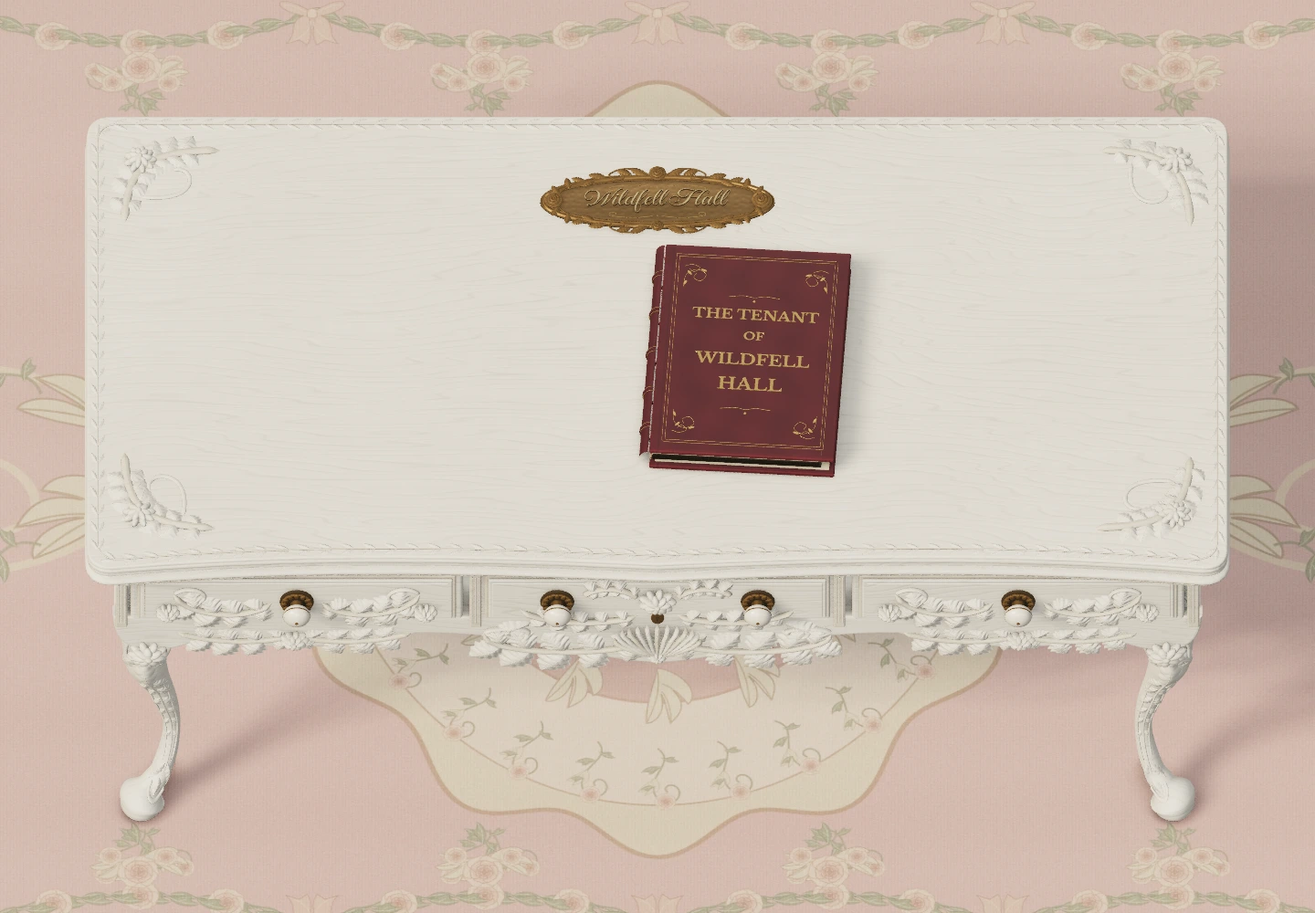
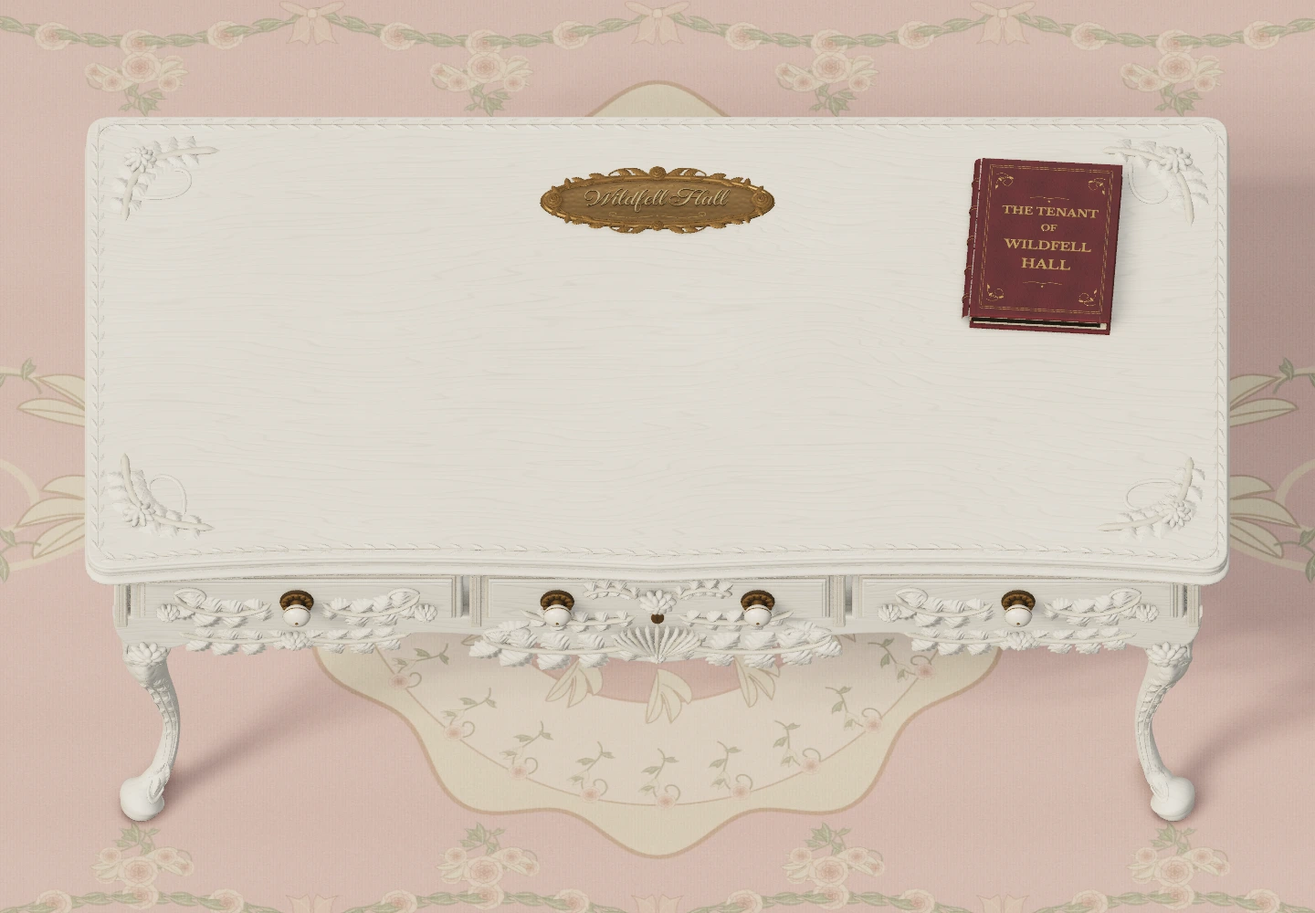
Refine the corner book and add full-screen reading

Changed region(s): [[0.4688, 0.248, 0.6562, 0.527], [0.7188, 0.155, 0.875, 0.372]]

diff --git a/src/desk-interaction.js b/src/desk-interaction.js
@@ -10,6 +10,8 @@ export function createDeskInteraction({ canvas, room, camera, desk, book, status
   const names = ['left', 'centre', 'right'];
   const bookControls = document.querySelector('#book-controls');
   const bookClose = document.querySelector('#book-close');
+  const bookRead = document.querySelector('#book-read'), viewToggle = document.querySelector('#view-toggle');
+  const viewReset = document.querySelector('#view-reset');
   const bookButtons = [...bookControls.querySelectorAll('button')];
   const pan = new THREE.Vector2(), pointers = new Map(), raycaster = new THREE.Raycaster();
   const pickMeshes = [];
@@ -21,10 +23,15 @@ export function createDeskInteraction({ canvas, room, camera, desk, book, status
   book.group.traverse(object => { if (object.isMesh && object.userData.bookPick) pickMeshes.push(object); });
   let zoom = 1, gesture = null, enabled = false, focusedDrawer = null, focusedBook = null;
   let lastBookPhase = 'closed', lastBookPage = 0;
+  let reading = false, deskView = null, ownedFullscreen = false, pendingTap = 0, lastTap = null;
   const MIN_ZOOM = 1, MAX_ZOOM = 2.8;
   const size = () => canvas.getBoundingClientRect();
   const visible = () => new THREE.Vector2((camera.right - camera.left) / camera.zoom, (camera.top - camera.bottom) / camera.zoom);
   function limits() {
+    if (reading) {
+      const view = visible();
+      return new THREE.Vector2(Math.max(0, (book.width - view.x) / 2 + .12), Math.max(0, (book.depth - view.y) / 2 + .12));
+    }
     const view = visible(), cropped = 8.1 - view.x / 2;
     return new THREE.Vector2(cropped > 0 ? Math.min(6.6, cropped + 1.2) : 0, Math.max(0, 6.1 - view.y / 2));
   }
@@ -48,8 +55,54 @@ export function createDeskInteraction({ canvas, room, camera, desk, book, status
     zoomOut.disabled = zoom <= MIN_ZOOM + .001;
   }
   function reset() {
-    resetView(); setZoom(1); pan.set(0, 0); invalidate();
+    if (!reading) resetView();
+    setZoom(1); pan.set(0, 0); invalidate();
   }
+  function clearTap() {
+    clearTimeout(pendingTap); pendingTap = 0; lastTap = null;
+  }
+  function readingControls() {
+    room.classList.toggle('is-reading', reading);
+    room.dataset.bookReading = String(reading);
+    drawerControls.hidden = !enabled || reading;
+    bookRead.setAttribute('aria-pressed', String(reading));
+    bookRead.setAttribute('aria-label', reading ? 'Return to desk' : 'Read book full screen');
+    viewReset.setAttribute('aria-label', reading ? 'Fit book to screen' : 'Reset view');
+    zoomIn.disabled = zoom >= MAX_ZOOM - .001; zoomOut.disabled = zoom <= MIN_ZOOM + .001;
+  }
+  function leaveReading() {
+    if (!reading) return;
+    clearTap(); reading = false;
+    zoom = deskView.zoom; pan.copy(deskView.pan); deskView = null;
+    focusedBook = focusedDrawer = null;
+    readingControls(); invalidate(); canvas.focus({ preventScroll: true });
+    status.textContent = 'Returned to the desk. Your place in the book is preserved.';
+    if (document.fullscreenElement === room) document.exitFullscreen().catch(() => {});
+  }
+  function enterReading() {
+    if (!enabled || reading) return;
+    clearTap(); deskView = { zoom, pan: pan.clone() };
+    reading = true; zoom = 1; pan.set(0, 0); focusedBook = focusedDrawer = null;
+    book.motion.open(); readingControls(); invalidate(); canvas.focus({ preventScroll: true });
+    status.textContent = 'Full-screen reading view. Click the pages or use the arrow keys to turn them. Press Escape to return to the desk.';
+    // The viewport reader also works on browsers that do not offer fullscreen
+    // or reject the request. Keep the request within the user's input event.
+    if (room.requestFullscreen && !document.fullscreenElement) {
+      room.requestFullscreen().then(() => {
+        if (!reading && document.fullscreenElement === room) document.exitFullscreen().catch(() => {});
+      }).catch(() => {});
+    }
+  }
+  document.addEventListener('fullscreenchange', () => {
+    if (document.fullscreenElement === room) ownedFullscreen = true;
+    else if (ownedFullscreen) { ownedFullscreen = false; leaveReading(); }
+    invalidate();
+  });
+  room.addEventListener('keydown', event => {
+    if (event.key === 'Escape' && reading) {
+      event.preventDefault(); event.stopPropagation(); leaveReading();
+    }
+  }, true);
   function hitTarget(x, y) {
     const rect = size();
     raycaster.setFromCamera(new THREE.Vector2((x - rect.left) / rect.width * 2 - 1, 1 - (y - rect.top) / rect.height * 2), camera);
@@ -65,6 +118,8 @@ export function createDeskInteraction({ canvas, room, camera, desk, book, status
     return null;
   }
   function activateBook(action) {
+    clearTap();
+    if (reading && (action === 'close' || action === 'toggle' || (action === 'previous' && book.motion.page === 0))) leaveReading();
     if (!enabled || !book.activate(action)) return;
     if (!book.motion.opened || action === 'close') bookButtons[0].focus({ preventScroll: true });
     status.textContent = action === 'next' || action === 'previous'
@@ -103,9 +158,10 @@ export function createDeskInteraction({ canvas, room, camera, desk, book, status
     });
   });
   bookClose.addEventListener('click', () => activateBook('close'));
+  bookRead.addEventListener('click', () => reading ? leaveReading() : enterReading());
   zoomIn.addEventListener('click', () => setZoom(zoom * 1.25));
   zoomOut.addEventListener('click', () => setZoom(zoom / 1.25));
-  document.querySelector('#view-reset').addEventListener('click', reset);
+  viewReset.addEventListener('click', reset);
   canvas.addEventListener('wheel', event => {
     if (!enabled) return;
     event.preventDefault();
@@ -123,7 +179,13 @@ export function createDeskInteraction({ canvas, room, camera, desk, book, status
     pointers.set(event.pointerId, { x: event.clientX, y: event.clientY });
     canvas.setPointerCapture(event.pointerId);
     const multi = pointers.size > 1;
-    gesture = { previous: midpoint(), start: midpoint(), moved: multi, target: multi ? null : hitTarget(event.clientX, event.clientY) };
+    const doubleTap = !multi && lastTap && event.timeStamp - lastTap.time < 340 &&
+      Math.hypot(event.clientX - lastTap.x, event.clientY - lastTap.y) < 28;
+    // Cancel the first page tap on the second press, before a slow rendered
+    // frame or a held finger can let the single-tap timer turn that page.
+    if (doubleTap) clearTimeout(pendingTap);
+    if (multi) clearTap();
+    gesture = { previous: midpoint(), start: midpoint(), moved: multi, doubleTap, startedAt: event.timeStamp, target: multi ? null : hitTarget(event.clientX, event.clientY) };
   });
   canvas.addEventListener('pointermove', event => {
     if (!enabled) return;
@@ -136,6 +198,7 @@ export function createDeskInteraction({ canvas, room, camera, desk, book, status
     const point = midpoint(), previous = gesture.previous;
     if (!gesture.moved && Math.hypot(point.x - gesture.start.x, point.y - gesture.start.y) < 6) return;
     gesture.moved = true;
+    clearTap();
     const rect = size(), view = visible();
     pan.x -= (point.x - previous.x) / rect.width * view.x;
     pan.y += (point.y - previous.y) / rect.height * view.y;
@@ -146,17 +209,32 @@ export function createDeskInteraction({ canvas, room, camera, desk, book, status
   function release(event, cancelled = false) {
     if (!pointers.has(event.pointerId)) return;
     const click = !cancelled && !gesture.moved && pointers.size === 1;
-    const target = gesture.target;
+    const { target, doubleTap, startedAt } = gesture;
     pointers.delete(event.pointerId);
     if (canvas.hasPointerCapture(event.pointerId)) canvas.releasePointerCapture(event.pointerId);
     if (pointers.size) gesture = { previous: midpoint(), start: midpoint(), moved: true, target: null };
     else { gesture = null; room.classList.remove('is-dragging'); }
     if (click && target && hitTarget(event.clientX, event.clientY) === target) {
-      if (target.startsWith('book:')) activateBook(target.slice(5));
+      if (target.startsWith('book:')) {
+        if (doubleTap) {
+          clearTap(); enterReading();
+        } else {
+          clearTap();
+          const action = target.slice(5);
+          if (book.motion.phase === 'closed') activateBook(action);
+          else if (action !== 'busy') pendingTap = setTimeout(() => activateBook(action), 340);
+          lastTap = { time: startedAt, x: event.clientX, y: event.clientY };
+        }
+      }
       else toggleDrawer(Number(target.slice(7)));
     }
+    if (cancelled) clearTap();
   }
   canvas.addEventListener('pointerup', event => release(event));
+  canvas.addEventListener('dblclick', event => {
+    if (!enabled || !hitTarget(event.clientX, event.clientY)?.startsWith('book:')) return;
+    event.preventDefault(); clearTap(); enterReading();
+  });
   canvas.addEventListener('pointercancel', event => release(event, true));
   canvas.addEventListener('lostpointercapture', event => release(event, true));
   canvas.addEventListener('pointerleave', () => room.classList.remove('is-drawer-hover'));
@@ -182,16 +260,39 @@ export function createDeskInteraction({ canvas, room, camera, desk, book, status
   });
   return {
     get dragging() { return pointers.size > 0; },
+    get reading() { return reading; },
     setEnabled(value) {
-      enabled = value; drawerControls.hidden = bookControls.hidden = !value;
+      enabled = value; bookControls.hidden = !value; readingControls();
       canvas.tabIndex = value ? 0 : -1;
       if (!value) {
+        clearTap();
         for (const id of pointers.keys()) if (canvas.hasPointerCapture(id)) canvas.releasePointerCapture(id);
         pointers.clear(); gesture = null;
         room.classList.remove('is-dragging', 'is-drawer-hover');
       }
     },
     applyCamera(target, direction, detail) {
+      if (reading) {
+        const rect = size(), aspect = rect.width / rect.height;
+        const usableHeight = Math.max(.55, 1 - 140 / rect.height);
+        const viewHeight = Math.max(book.depth / usableHeight, book.width / (aspect * .90));
+        camera.left = -viewHeight * aspect / 2; camera.right = -camera.left;
+        camera.top = viewHeight / 2; camera.bottom = -camera.top; camera.zoom = zoom;
+        direction.set(0, 1, 0);
+        const up = new THREE.Vector3(0, 0, -1).applyQuaternion(book.group.quaternion);
+        const right = new THREE.Vector3(1, 0, 0).applyQuaternion(book.group.quaternion);
+        camera.up.copy(up); target.copy(book.group.position);
+        if (focusedBook !== null) {
+          const relative = book.anchor(focusedBook).sub(target), view = visible();
+          if (Math.abs(relative.dot(right) - pan.x) > view.x * .40) pan.x = relative.dot(right);
+          if (Math.abs(relative.dot(up) - pan.y) > view.y * .40) pan.y = relative.dot(up);
+          focusedBook = null;
+        }
+        clampPan(); target.addScaledVector(right, pan.x).addScaledVector(up, pan.y - viewHeight * (50 / rect.height) / zoom);
+        room.classList.toggle('is-pannable', limits().lengthSq() > .01);
+        return;
+      }
+      camera.up.set(0, 1, 0);
       camera.zoom = zoom * (1 + detail * .14); clampPan();
       const up = new THREE.Vector3(0, direction.z, -direction.y);
       if (focusedDrawer !== null) {
@@ -233,7 +334,7 @@ export function createDeskInteraction({ canvas, room, camera, desk, book, status
       });
       const { motion } = book;
       if (motion.phase !== lastBookPhase || motion.page !== lastBookPage) {
-        if (motion.phase === 'open') status.textContent = `The book is open. ${motion.page} of ${LEAF_COUNT} blank leaves turned. Use the left and right pages or arrow keys to turn pages, and Escape to close.`;
+        if (motion.phase === 'open') status.textContent = `The book is open. ${motion.page} of ${LEAF_COUNT} blank leaves turned. Use the left and right pages or arrow keys to turn pages. ${reading ? 'Escape returns to the desk.' : 'Double-click for full-screen reading, or press Escape to close.'}`;
         if (motion.phase === 'closed') status.textContent = 'The Tenant of Wildfell Hall is closed.';
         lastBookPhase = motion.phase; lastBookPage = motion.page;
       }
@@ -241,6 +342,8 @@ export function createDeskInteraction({ canvas, room, camera, desk, book, status
       room.dataset.bookPage = String(motion.page); room.dataset.bookPhase = motion.phase;
       bookControls.setAttribute('aria-busy', String(motion.busy));
       bookClose.hidden = !motion.opened;
+      bookRead.hidden = !motion.opened;
+      viewToggle.hidden = motion.opened;
       bookButtons.forEach(button => {
         const action = button.dataset.bookAction;
         button.hidden = action !== 'toggle' && !motion.opened;

diff --git a/src/main.js b/src/main.js
@@ -86,7 +86,11 @@ async function init() {
   });
   // A room-size carpet keeps the elevated composition on the blush textile.
   carpet.scale.set(1.85, 1, 1.85); carpet.position.z = -3;
-  scene.add(createFloor(), carpet, desk.group, book.group);
+  const furniture = new THREE.Group(); furniture.add(createFloor(), carpet, desk.group);
+  const readingGround = new THREE.Mesh(new THREE.PlaneGeometry(100, 100), new THREE.MeshStandardMaterial({ color: '#302620', roughness: 1 }));
+  readingGround.rotation.x = -Math.PI / 2; readingGround.position.y = DESK.surfaceY;
+  readingGround.receiveShadow = true; readingGround.visible = false;
+  scene.add(furniture, book.group, readingGround);
   renderer.shadowMap.needsUpdate = true;
 
   // Small-scale occlusion makes the carved undercuts read without painting black outlines.
@@ -101,7 +105,7 @@ async function init() {
 
   let width = 0, height = 0, frame = 0, lastTime = 0;
   let graphicsAvailable = true;
-  let currentLight = 0, currentDetail = 0;
+  let currentLight = 0, currentDetail = 0, wasReading = false;
   const pointer = new THREE.Vector2(), currentPointer = new THREE.Vector2();
   const interaction = createDeskInteraction({ canvas, room, camera, desk, book, status, invalidate, resetView: () => {
     setDetail(false); pointer.set(0, 0); currentPointer.set(0, 0);
@@ -111,12 +115,7 @@ async function init() {
   function resize() {
     width = room.clientWidth; height = room.clientHeight;
     renderer.setSize(width, height, false); composer.setSize(width, height);
-    // A narrow carpet surround on desktop; portrait crops the sides instead
-    // of shrinking the writing surface into the middle of a large floor.
-    const aspect = width / height, viewHeight = Math.min(12.2, Math.max(11.6, 17.6 / aspect));
-    camera.left = -viewHeight * aspect / 2; camera.right = -camera.left;
-    camera.top = viewHeight / 2; camera.bottom = -camera.top;
-    camera.updateProjectionMatrix();
+    renderer.shadowMap.needsUpdate = true;
     invalidate();
   }
   function invalidate() { if (!frame && !document.hidden && graphicsAvailable) frame = requestAnimationFrame(render); }
@@ -135,6 +134,14 @@ async function init() {
     hemisphere.color.copy(sky).lerp(duskSky, currentLight);
     hemisphere.intensity = .42 - currentLight * .10;
     renderer.toneMappingExposure = .94 - currentLight * .06;
+    // A narrow carpet surround on desktop; portrait crops the sides instead
+    // of shrinking the writing surface into the middle of a large floor.
+    const aspect = width / height, viewHeight = Math.min(12.2, Math.max(11.6, 17.6 / aspect));
+    camera.left = -viewHeight * aspect / 2; camera.right = -camera.left;
+    camera.top = viewHeight / 2; camera.bottom = -camera.top;
+    if (!interaction.reading) book.place(viewHeight * aspect, aspect <= .75);
+    furniture.visible = !interaction.reading; readingGround.visible = interaction.reading;
+    if (wasReading !== interaction.reading) { renderer.shadowMap.needsUpdate = true; wasReading = interaction.reading; }
     const target = baseTarget.clone();
     target.x += currentPointer.x * .07;
     target.y -= currentDetail * .15;
@@ -153,11 +160,13 @@ async function init() {
     if (unsettled || drawers.unsettled || pages.unsettled) invalidate();
   }
   room.addEventListener('pointermove', event => {
-    if (interaction.dragging || motionQuery.matches || !finePointer.matches || event.pointerType === 'touch') return;
+    if (interaction.reading || interaction.dragging || motionQuery.matches || !finePointer.matches || event.pointerType === 'touch') return;
     pointer.set((event.clientX / width - .5) * 2, (event.clientY / height - .5) * 2); invalidate();
   }, { passive: true });
   room.addEventListener('pointerleave', () => { pointer.set(0, 0); invalidate(); });
-  canvas.addEventListener('pointerdown', () => { pointer.set(0, 0); invalidate(); });
+  canvas.addEventListener('pointerdown', () => {
+    if (pointer.lengthSq() || currentPointer.lengthSq()) { pointer.set(0, 0); invalidate(); }
+  });
   motionQuery.addEventListener('change', () => { pointer.set(0, 0); invalidate(); });
   document.addEventListener('visibilitychange', () => {
     if (document.hidden) { cancelAnimationFrame(frame); frame = 0; }

diff --git a/index.html b/index.html
@@ -13,14 +13,14 @@
     <main id="room" aria-label="An antique white wooden writing desk">
       <div id="desk-fallback" aria-hidden="true">
         <picture>
-          <source media="(min-aspect-ratio: 3/2)" srcset="./materials/desk-still-wide.webp?v=book-1" />
-          <source media="(max-aspect-ratio: 3/4)" srcset="./materials/desk-still-portrait.webp?v=book-1" />
-          <img src="./materials/desk-still.webp?v=book-1" alt="" fetchpriority="high" />
+          <source media="(min-aspect-ratio: 3/2)" srcset="./materials/desk-still-wide.webp?v=book-2" />
+          <source media="(max-aspect-ratio: 3/4)" srcset="./materials/desk-still-portrait.webp?v=book-2" />
+          <img src="./materials/desk-still.webp?v=book-2" alt="" fetchpriority="high" />
         </picture>
       </div>
       <h1 class="sr-only">Wildfell Hall</h1>
       <canvas id="desk" aria-describedby="desk-help" aria-label="An elevated view of an antique ivory writing desk, with a maroon leather-bound copy of The Tenant of Wildfell Hall, visible wood grain, carved drawers, porcelain and brass knobs, cabriole legs, a brass oval crest with embossed gold script, roses and leaves, and a light pink floral carpet"></canvas>
-      <p id="desk-help" class="sr-only">Scroll, pinch, or use the plus and minus keys to zoom. Drag or use the arrow keys to inspect the desk. Press Home or use Reset view to return to the starting view. Click or tap a drawer to open or close it, or Tab to its knob and press Enter or Space. Click the maroon book to open it. Click the right page to turn forward, or the left page to turn back. With the book open, the left and right arrow keys turn pages and Escape closes it. Tab also reaches the book and page controls.</p>
+      <p id="desk-help" class="sr-only">Scroll, pinch, or use the plus and minus keys to zoom. Drag or use the arrow keys to inspect the desk. Press Home or use Reset view to return to the starting view. Click or tap a drawer to open or close it, or Tab to its knob and press Enter or Space. Click the maroon book to open it. Double-click or double-tap the book for a full-screen reading view, or use the Read book full screen button. Click the right page to turn forward, or the left page to turn back. With the book open, the left and right arrow keys turn pages. Escape returns from reading view to the same page on the desk; otherwise it closes the book. Tab also reaches the book and page controls.</p>
       <div id="book-controls" role="group" aria-label="The Tenant of Wildfell Hall, blank aged pages" hidden>
         <button class="book-hotspot" data-book-action="toggle" aria-label="Open The Tenant of Wildfell Hall" aria-expanded="false"></button>
         <button class="book-hotspot" data-book-action="previous" aria-label="Previous blank page" hidden></button>
@@ -40,6 +40,13 @@
               <path d="M25 6H10q-4 0-4 4v14q0 4 4 4h15V6ZM6 24q0-3 4-3h15M10 7v13"/>
               <path class="icon-detail" d="M12 9h10v9H12ZM10 24h12M10 26h12"/>
               <path d="M5 14H2m0 0 3-3m-3 3 3 3"/>
+            </svg>
+          </button>
+          <button id="book-read" aria-label="Read book full screen" aria-pressed="false" hidden>
+            <svg viewBox="0 0 32 32" fill="none" stroke="currentColor" aria-hidden="true" focusable="false">
+              <path class="icon-wash" d="M7 10q5-2 9 1 4-3 9-1v13q-5-2-9 1-4-3-9-1Z"/>
+              <path d="M7 10q5-2 9 1 4-3 9-1v13q-5-2-9 1-4-3-9-1ZM16 11v13M10 4H4v6m18-6h6v6M4 22v6h6m12 0h6v-6"/>
+              <path class="icon-detail" d="M9 13q3-1 5 1m4 0q2-2 5-1M9 16q3-1 5 1m4 0q2-2 5-1M6 7l2-1m16 0 2 1M6 25l2 1m16 0 2-1"/>
             </svg>
           </button>
           <button id="light-toggle" aria-label="Change to evening light" aria-pressed="false">

diff --git a/src/book-materials.js b/src/book-materials.js
@@ -33,7 +33,8 @@ export function createBookMaterials() {
   for (let y = 0; y < size; y++) for (let x = 0; x < size; x++) {
     // Small irregular grains, with narrower creases between them. Fine pores
     // sit above this structure instead of making the leather look like noise.
-    const u = x / 6.5, v = y / 8.2, ix = Math.floor(u), iy = Math.floor(v);
+    const u = (x + softNoise(x / 70, y / 95) * 10) / 8.8;
+    const v = (y + softNoise(x / 90 + 17, y / 60) * 10) / 11.2, ix = Math.floor(u), iy = Math.floor(v);
     let first = 9, second = 9;
     for (let dy = -1; dy <= 1; dy++) for (let dx = -1; dx <= 1; dx++) {
       const a = ix + dx, b = iy + dy;
@@ -46,15 +47,24 @@ export function createBookMaterials() {
     const edge = Math.min(x, y, size - 1 - x, size - 1 - y) / size;
     const wear = Math.exp(-edge * 170) * (.35 + rng() * .45);
     const joint = Math.exp(-(((x / size - .047) / .006) ** 2));
-    const tone = 1 + mottling + (grain - .5) * .10 + pore * .035 - joint * .13;
+    const tone = 1 + mottling + (grain - .5) * .20 + pore * .035 - joint * .13;
     const i = (y * size + x) * 4;
     colour.set([83 * tone + wear * 42, 26 * tone + wear * 24, 39 * tone + wear * 14, 255], i);
-    const h = 88 + grain * 88 + pore * 13 - joint * 48;
+    const h = 78 + grain * 108 + pore * 10 - joint * 48;
     height.set([h, h, h, 255], i);
-    const r = 180 + (1 - grain) * 30 + pore * 12 - wear * 28;
+    const r = 163 + (1 - grain) * 64 + pore * 12 - wear * 28;
     roughness.set([r, r, r, 255], i);
   }
-  const leather = new THREE.MeshPhysicalMaterial({ map: texture(colour, size, true), bumpMap: texture(height, size),
+  // Tangent-space normals keep the pebbled relief legible under the room's
+  // broad window lighting, including when the smaller book is seen obliquely.
+  const normals = new Uint8Array(colour.length);
+  const h = (x, y) => height[(Math.max(0, Math.min(size - 1, y)) * size + Math.max(0, Math.min(size - 1, x))) * 4] / 255;
+  for (let y = 0; y < size; y++) for (let x = 0; x < size; x++) {
+    const nx = (h(x - 1, y) - h(x + 1, y)) * 1.1, ny = (h(x, y - 1) - h(x, y + 1)) * 1.1;
+    const length = Math.hypot(nx, ny, 1);
+    normals.set([(nx / length * .5 + .5) * 255, (ny / length * .5 + .5) * 255, (1 / length * .5 + .5) * 255, 255], (y * size + x) * 4);
+  }
+  const leather = new THREE.MeshPhysicalMaterial({ map: texture(colour, size, true), bumpMap: texture(height, size), normalMap: texture(normals, size),
     roughnessMap: texture(roughness, size), bumpScale: .018, roughness: .76, metalness: 0,
     clearcoat: .06, clearcoatRoughness: .65 });
   const gold = new THREE.MeshStandardMaterial({ color: '#e7c478', metalness: .90, roughness: .34, envMapIntensity: 1.4,

diff --git a/src/book.js b/src/book.js
@@ -12,7 +12,8 @@ const CLOSED_HINGE = .368, OPEN_HINGE = .040;
 export async function createBook(surfaceY) {
   const materials = createBookMaterials(), motion = new BookMotion();
   const group = new THREE.Group(); group.name = 'tenant-of-wildfell-hall';
-  group.position.set(0, surfaceY + .004, .40); group.rotation.y = -.065;
+  group.position.set(4.25, surfaceY + .004, -1.55); group.rotation.y = -.065;
+  group.scale.setScalar(.76);
   function mesh(geometry, material, parent, name, action) {
     const object = new THREE.Mesh(geometry, material); object.name = name;
     object.castShadow = object.receiveShadow = true;
@@ -114,6 +115,13 @@ export async function createBook(surfaceY) {
   updateGeometry();
   return {
     group, motion,
+    width: COVER_WIDTH * 2 * group.scale.x, depth: COVER_DEPTH * group.scale.z,
+    place(viewWidth, portrait) {
+      // Keep the corner object within the cropped writing surface on phones.
+      group.position.x = portrait ? .15 : Math.min(4.25, Math.max(.15, viewWidth / 2 - COVER_WIDTH * group.scale.x - .35));
+      group.position.z = portrait ? .65 : -1.55;
+      group.updateMatrixWorld(true);
+    },
     activate(action) {
       if (action === 'toggle') return motion.opened ? motion.close() : motion.open();
       if (action === 'close') return motion.close();

diff --git a/src/style.css b/src/style.css
@@ -5,6 +5,8 @@ button { font: inherit; color: inherit; }
 [hidden] { display: none !important; }
 button:focus-visible { outline: 2px solid #947039; outline-offset: 5px; border-radius: 50%; }
 #room { position: relative; width: 100%; height: 100svh; min-height: 420px; overflow: hidden; isolation: isolate; background: #b9afa0; }
+#room.is-reading, #room:fullscreen { height: 100dvh; min-height: 0; }
+.is-reading .room-vignette { background: radial-gradient(ellipse at 50% 44%, transparent 45%, #130f0b25); }
 #desk { position: absolute; width: 100%; height: 100%; display: block; opacity: 0; transition: opacity 1.2s ease; outline: none; touch-action: none; pointer-events: none; }
 .is-ready #desk { opacity: 1; pointer-events: auto; }
 .is-ready.is-pannable #desk { cursor: grab; }

diff --git a/AGENTS.md b/AGENTS.md
@@ -2,7 +2,7 @@
 
 - Do not use the Sites or image generation skills or services at any point in this project. This is an explicit user instruction.
 - Build and maintain the website directly in this repository. Keep it compatible with static GitHub Pages hosting.
-- The current scope is the antique white wooden writing desk, its atmosphere, and a maroon leather-bound copy of The Tenant of Wildfell Hall that opens to blank, aged, turnable pages. Other papers, books, navigation, and personal/project content are future work.
+- The current scope is the antique white wooden writing desk, its atmosphere, and a small maroon leather-bound copy of The Tenant of Wildfell Hall near the corner, with blank, aged, turnable pages and a full-screen reading view. Other papers, books, navigation, and personal/project content are future work.
 - Use procedural materials and actual geometry for the desk. Preserve the quiet Victorian/Romantic-inspired character and the clear writing surface.
 - Respect reduced-motion preferences, touch input, and the non-WebGL fallback.
 - Visible lettering is limited to the gold cursive “Wildfell Hall” on the desktop and the gold-leaf book title “The Tenant of Wildfell Hall”. Keep the book's pages blank. Do not add headings, captions, monograms, or visible control labels over the desk.
